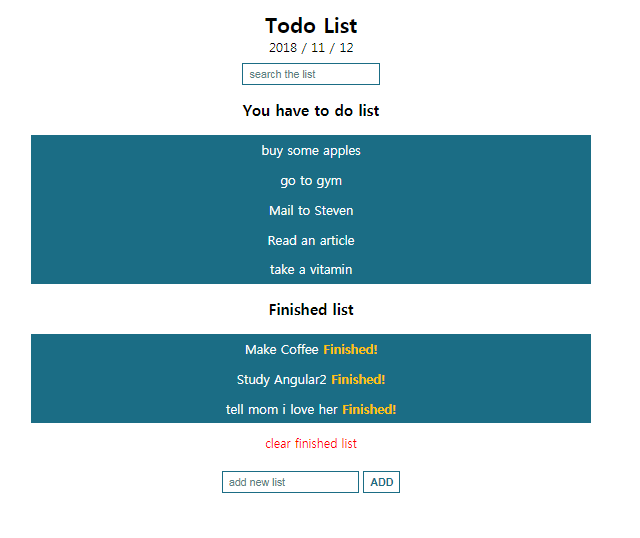
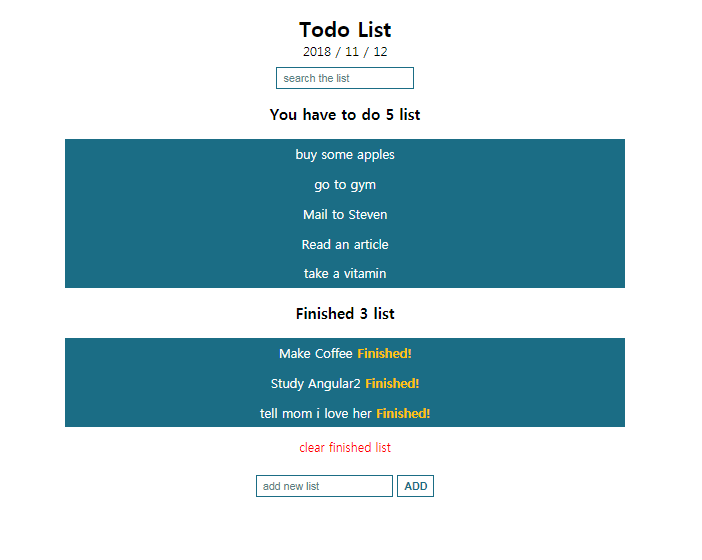
FIX && Try few things

Changed region(s): [[0.0312, 0.0297, 0.9375, 0.9219]]

diff --git a/src/app/todo-list/todo-list.component.html b/src/app/todo-list/todo-list.component.html
@@ -3,24 +3,24 @@
   <input type="text" placeholder="search the list" #searchItem (keyup)="onSearchItem(searchItem.value)">
 </div>
 
-<h3>You have to do list</h3>
+<h3>You have to do <span *ngIf="todoItem.length; else emptyTag" >{{todoItem.length}} list</span></h3>
 <ul>
   <li *ngFor="let item of allItems" (click)="onItemClick(item)" [ngStyle]="{'display': item.isFinished || item.hide  ? 'none' : 'block' }">
     {{item.content}}
   </li>
 </ul>
-<p *ngIf="todoItem.length === 0;">** Nothing to do? **</p>
+<ng-template #emptyTag> ** Nothing **</ng-template>
 
-<h3>Finished list</h3>
+<h3>Finished  <span *ngIf="clearItem.length;" >{{clearItem.length}} list</span> </h3>
 <ul>
   <li *ngFor="let item of clearItem" (click)="onItemClick(item)" [ngStyle]="{'display': item.hide  ? 'none' : 'block' }">
       {{item.content}} <span class="finsihed"> Finished! </span>
   </li>
 </ul>
 
-<p *ngIf="clearItem.length === 0; else clearBtn">** You didn't finish yet? **</p>
+<p *ngIf="!clearItem.length; else clearBtn">** You didn't finish yet? **</p>
 <ng-template #clearBtn>
-  <span class="clearBtn" (click)="onClear()" *ngIf="clearItem.length > 0">clear finished list</span>
+  <span class="clearBtn" (click)="onClear()">clear finished list</span>
 </ng-template>
 
 

diff --git a/src/app/todo-list/todo-list.component.ts b/src/app/todo-list/todo-list.component.ts
@@ -1,11 +1,13 @@
-import { Component, OnInit } from '@angular/core';
+import { Component, OnInit, ViewEncapsulation } from '@angular/core';
 import { TodoList } from './todo-list.model';
 import { TodoService } from '../todo.service';
 
 @Component({
   selector: 'app-todo-list',
   templateUrl: './todo-list.component.html',
-  styleUrls: ['./todo-list.component.css']
+  styleUrls: ['./todo-list.component.css'],
+  encapsulation: ViewEncapsulation.Native
+
 })
 export class TodoListComponent implements OnInit {
 
@@ -35,6 +37,10 @@ export class TodoListComponent implements OnInit {
   }
 
   onAddItem(newItem) {
+    if(newItem.value === ""){
+      return false;
+    }
+
     this.allItems.push({
       content: newItem.value,
       isFinished: false

diff --git a/src/app/app.component.ts b/src/app/app.component.ts
@@ -1,17 +1,19 @@
 import { Component } from '@angular/core';
+import { enableProdMode } from '@angular/core';
 
 @Component({
   selector: 'app-root',
   templateUrl: './app.component.html',
   styleUrls: ['./app.component.css']
 })
-export class AppComponent {
 
-  date;
+export class AppComponent {
+  private date;
 
   constructor(){
     this.date = new Date();
   };
 
-
 }
+
+enableProdMode();
